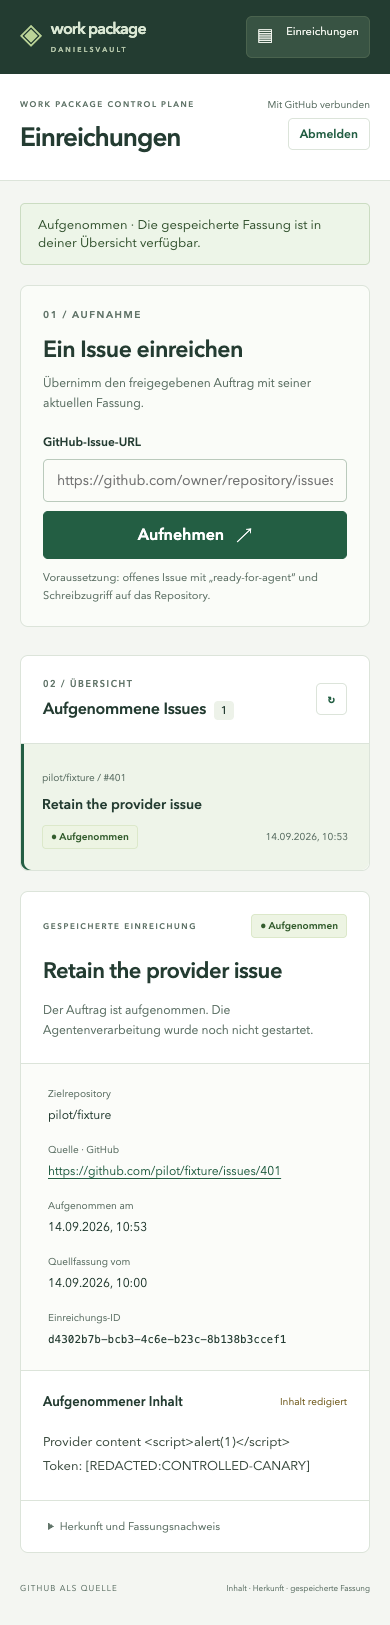
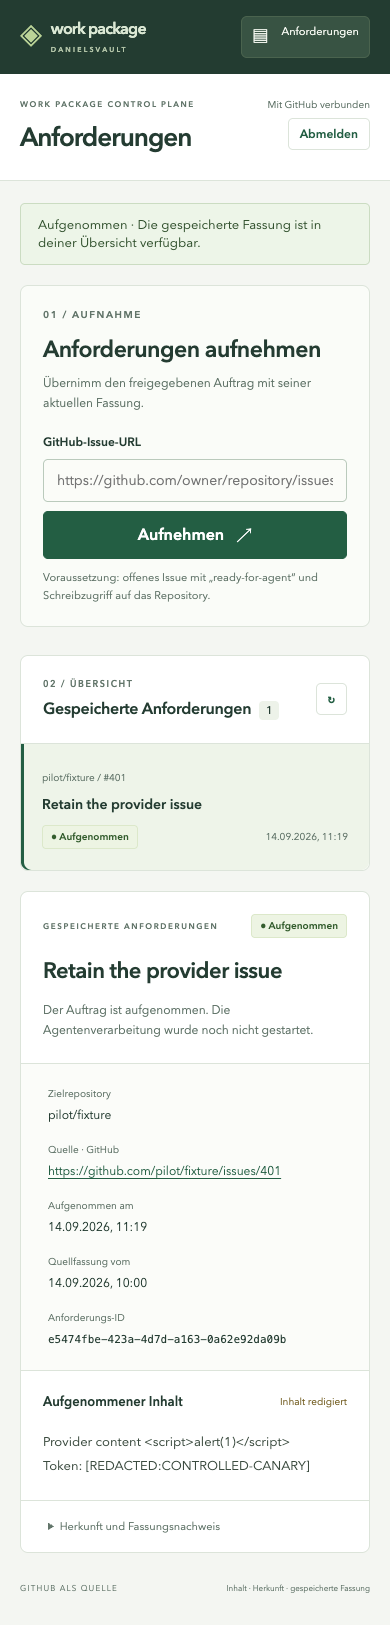
fix(operator): call work inputs Anforderungen in the GUI

diff --git a/microsoft-agent-framework-work-package-pilot/src/Wpcp.Api/wwwroot/operator/index.html b/microsoft-agent-framework-work-package-pilot/src/Wpcp.Api/wwwroot/operator/index.html
@@ -3,7 +3,7 @@
 <head>
   <meta charset="utf-8">
   <meta name="viewport" content="width=device-width, initial-scale=1">
-  <title>Einreichungen · Work Package Control Plane</title>
+  <title>Anforderungen · Work Package Control Plane</title>
   <link rel="stylesheet" href="/operator/operator.css">
   <script type="module" src="/operator/operator.js"></script>
 </head>
@@ -11,12 +11,12 @@
   <aside class="portal" aria-label="Navigation">
     <a class="brand" href="/operator/"><span aria-hidden="true">◈</span><span>work package<small>DANIELSVAULT</small></span></a>
     <p class="eyebrow">OPERATOR</p>
-    <a class="nav-current" href="/operator/" aria-current="page"><span aria-hidden="true">▤</span> Einreichungen</a>
+    <a class="nav-current" href="/operator/" aria-current="page"><span aria-hidden="true">▤</span> Anforderungen</a>
     <p class="portal-foot">Ein Ort für den Auftrag.<br>Eine nachvollziehbare Fassung.</p>
   </aside>
   <main>
     <header class="page-header">
-      <div><p class="eyebrow">WORK PACKAGE CONTROL PLANE</p><h1>Einreichungen</h1></div>
+      <div><p class="eyebrow">WORK PACKAGE CONTROL PLANE</p><h1>Anforderungen</h1></div>
       <div class="connection"><span id="connection-label">Nicht verbunden</span><button id="disconnect" class="quiet" hidden>Abmelden</button></div>
     </header>
     <div id="notice" role="status" aria-live="polite"></div>
@@ -24,7 +24,7 @@
     <section id="sign-in" class="sign-in panel" aria-labelledby="sign-in-title">
       <span class="section-number">01 / ZUGANG</span>
       <h2 id="sign-in-title">Mit GitHub verbinden</h2>
-      <p>Verwende deinen persönlichen GitHub-Zugang. Deine aktuellen Repository-Rechte bestimmen, welche Einreichungen du sehen und aufnehmen kannst.</p>
+      <p>Verwende deinen persönlichen GitHub-Zugang. Deine aktuellen Repository-Rechte bestimmen, welche Anforderungen du sehen und aufnehmen kannst.</p>
       <form id="connect-form">
         <label for="github-token">GitHub-Zugangstoken</label>
         <div class="input-row"><input id="github-token" type="password" required autocomplete="off" spellcheck="false"><button type="submit" class="primary">Verbinden <span aria-hidden="true">→</span></button></div>
@@ -33,7 +33,7 @@
     </section>
     <section id="workspace" hidden>
       <section class="intake panel" aria-labelledby="intake-title">
-        <div><span class="section-number">01 / AUFNAHME</span><h2 id="intake-title">Ein Issue einreichen</h2><p>Übernimm den freigegebenen Auftrag mit seiner aktuellen Fassung.</p></div>
+        <div><span class="section-number">01 / AUFNAHME</span><h2 id="intake-title">Anforderungen aufnehmen</h2><p>Übernimm den freigegebenen Auftrag mit seiner aktuellen Fassung.</p></div>
         <form id="submission-form">
           <label for="source-url">GitHub-Issue-URL</label>
           <div class="input-row"><input id="source-url" type="url" placeholder="https://github.com/owner/repository/issues/123" required autocomplete="off"><button type="submit" class="primary">Aufnehmen <span aria-hidden="true">↗</span></button></div>
@@ -42,22 +42,22 @@
       </section>
       <div class="records">
         <section class="overview panel" aria-labelledby="overview-title">
-          <div class="section-header"><div><span class="section-number">02 / ÜBERSICHT</span><h2 id="overview-title">Aufgenommene Issues <span id="count" class="count">0</span></h2></div><button id="refresh" class="quiet" aria-label="Einreichungen aktualisieren">↻</button></div>
-          <div id="submission-list" aria-label="Gespeicherte Einreichungen"></div>
+          <div class="section-header"><div><span class="section-number">02 / ÜBERSICHT</span><h2 id="overview-title">Gespeicherte Anforderungen <span id="count" class="count">0</span></h2></div><button id="refresh" class="quiet" aria-label="Anforderungen aktualisieren">↻</button></div>
+          <div id="submission-list" aria-label="Gespeicherte Anforderungen"></div>
         </section>
-        <section id="detail" class="detail panel" aria-label="Einreichungsdetails"><div class="empty"><span aria-hidden="true">▤</span><h2>Der Auftrag im Detail</h2><p>Wähle eine Einreichung aus der Übersicht.</p></div></section>
+        <section id="detail" class="detail panel" aria-label="Anforderungsdetails"><div class="empty"><span aria-hidden="true">▤</span><h2>Anforderungen im Detail</h2><p>Wähle die Anforderungen aus der Übersicht.</p></div></section>
       </div>
     </section>
     <footer class="page-foot">GITHUB ALS QUELLE <span>Inhalt · Herkunft · gespeicherte Fassung</span></footer>
   </main>
   <template id="detail-template">
-    <div class="detail-heading"><div class="detail-kicker"><span class="section-number">GESPEICHERTE EINREICHUNG</span><span class="badge">● Aufgenommen</span></div><h2 data-field="title" tabindex="-1"></h2><p class="execution-note">Der Auftrag ist aufgenommen. Die Agentenverarbeitung wurde noch nicht gestartet.</p></div>
+    <div class="detail-heading"><div class="detail-kicker"><span class="section-number">GESPEICHERTE ANFORDERUNGEN</span><span class="badge">● Aufgenommen</span></div><h2 data-field="title" tabindex="-1"></h2><p class="execution-note">Der Auftrag ist aufgenommen. Die Agentenverarbeitung wurde noch nicht gestartet.</p></div>
     <dl class="metadata">
       <div><dt>Zielrepository</dt><dd data-field="repository"></dd></div>
       <div><dt>Quelle · GitHub</dt><dd><a data-field="source" target="_blank" rel="noopener noreferrer"></a></dd></div>
       <div><dt>Aufgenommen am</dt><dd data-field="admitted"></dd></div>
       <div><dt>Quellfassung vom</dt><dd data-field="revision"></dd></div>
-      <div class="full"><dt>Einreichungs-ID</dt><dd><code data-field="id"></code></dd></div>
+      <div class="full"><dt>Anforderungs-ID</dt><dd><code data-field="id"></code></dd></div>
     </dl>
     <div class="content"><div class="content-heading"><h3>Aufgenommener Inhalt</h3><span data-field="redaction"></span></div><pre data-field="body"></pre></div>
     <details class="provenance"><summary>Herkunft und Fassungsnachweis</summary><dl><dt>GitHub Issue-ID</dt><dd data-field="issue-id"></dd><dt>Aufgenommen durch</dt><dd data-field="actor"></dd><dt>SHA-256 der gespeicherten Fassung</dt><dd><code data-field="sha"></code></dd><dt>Redaktionsregel</dt><dd data-field="policy"></dd></dl></details>

diff --git a/microsoft-agent-framework-work-package-pilot/src/Wpcp.Api/wwwroot/operator/operator.js b/microsoft-agent-framework-work-package-pilot/src/Wpcp.Api/wwwroot/operator/operator.js
@@ -10,13 +10,13 @@ const errors = {
   'repository-provider-unavailable': 'GitHub konnte deine Repository-Rechte nicht bestätigen. Bitte erneut versuchen.',
   'github-source-unavailable': 'GitHub konnte das Issue nicht zuverlässig liefern. Bitte erneut versuchen.',
   'github-issue-not-found': 'Das GitHub-Issue wurde nicht gefunden oder dein Zugang darf es nicht lesen.',
-  'github-source-is-pull-request': 'Diese Quelle ist ein Pull Request. Bitte ein Issue einreichen.',
+  'github-source-is-pull-request': 'Diese Quelle ist ein Pull Request. Bitte Anforderungen aus einem Issue aufnehmen.',
   'github-source-identity-mismatch': 'Die GitHub-Antwort gehört nicht zum angefragten Issue.',
   'github-issue-closed': 'Das Issue ist geschlossen. Nur offene Issues können aufgenommen werden.',
   'implementation-authorization-required': 'Dem Issue fehlt die Implementierungsfreigabe „ready-for-agent“.',
   'submission-correlation-rejected': 'Die Herkunft enthält einen durch die Redaktionsregel gesperrten Wert.',
-  'submission-not-found': 'Diese Einreichung wurde nicht gefunden.',
-  'run-store-unavailable': 'Der Server kann die Einreichungen gerade nicht speichern oder lesen. Bitte erneut versuchen.',
+  'submission-not-found': 'Diese Anforderungen wurden nicht gefunden.',
+  'run-store-unavailable': 'Der Server kann die Anforderungen gerade nicht speichern oder lesen. Bitte erneut versuchen.',
 };
 let credential = '';
 let operation;
@@ -121,7 +121,7 @@ async function overview(signal, selected = location.hash.slice(1)) {
     await showDetail(id, signal);
   } else {
     const empty = document.createElement('div'); empty.className = 'empty';
-    empty.textContent = 'Noch keine sichtbaren Einreichungen. Nimm oben dein erstes freigegebenes GitHub-Issue auf.';
+    empty.textContent = 'Noch keine sichtbaren Anforderungen. Nimm oben dein erstes freigegebenes GitHub-Issue auf.';
     $('submission-list').append(empty);
     $('detail').textContent = 'Die gespeicherte Fassung erscheint hier nach der Aufnahme.';
   }

diff --git a/microsoft-agent-framework-work-package-pilot/tests/test_submissions.py b/microsoft-agent-framework-work-package-pilot/tests/test_submissions.py
@@ -165,6 +165,6 @@ class SubmissionTests(SubmissionProcessHarness, unittest.TestCase):
     def test_operator_gui_is_served_without_fixture_capability(self):
         status, _, raw = self.request('GET', '/operator/', include_fixture_access=False)
         self.assertEqual(200, status)
-        self.assertIn('<title>Einreichungen', raw)
+        self.assertIn('<title>Anforderungen', raw)
         self.assertIn('GitHub-Issue-URL', raw)
         self.assertIn('type="module"', raw)

diff --git a/openspec/changes/add-agent-framework-operator-gui/issue-01-evidence.md b/openspec/changes/add-agent-framework-operator-gui/issue-01-evidence.md
@@ -67,4 +67,9 @@ The large history scenario committed 10,015 events, reconnected for 9,765 events
 
 Final source checks: zero-warning/zero-error .NET solution build, JavaScript syntax validation, `git diff --check`, and `openspec validate add-agent-framework-operator-gui --strict`. The initial environment run is retained separately as [initial-environment-run.log](evidence/issue-01/initial-environment-run.log); it is not counted as a product regression or acceptance evidence.
 
-The final refactored code also passed the explicit real GitHub GUI/restart proof again (1 test in 18.741 seconds): [live-github-test.log](evidence/issue-01/live-github-test.log). The live screenshots and snapshot were refreshed from this final run.
+The final refactored code also passed the explicit real GitHub GUI/restart proof again (1 test): [live-github-test.log](evidence/issue-01/live-github-test.log). The live screenshots and snapshot were refreshed from this final run.
+
+
+## User-requested terminology correction
+
+The user requested a product-facing name such as Featureidee, Anforderungen or Spec instead of Einreichung. The GUI now consistently uses **Anforderungen** in navigation, page/title/detail labels, accessible labels and error/empty-state messages. This is a copy-only follow-up in the same change. Two focused existing checks passed (rendered browser/restart and public GUI route), followed by the real GitHub GUI proof (1 passed in 17.936 seconds). Desktop/mobile screenshots and readback snapshots were refreshed. No full regression rerun was needed for these text changes; strict OpenSpec validation and diff checks passed.

diff --git a/openspec/changes/add-agent-framework-operator-gui/design.md b/openspec/changes/add-agent-framework-operator-gui/design.md
@@ -18,6 +18,10 @@ The existing PRD already requires work across human machines, full observable me
 - The user selected the complete human Operator surface for the first release. Routine intervention, continuation, control ownership/transfer and qualified-head approval must be possible through the GUI; targeted Open in Codex remains an explicit path for detailed session work.
 - The GUI is additive. The user explicitly retains access through their local agent and the existing pilot Handover route; central session management does not make the GUI mandatory for diagnosis or supported intervention.
 
+## User-facing terminology
+
+On 2026-09-14 the user requested “Featureidee”, “Anforderungen” or “Spec” instead of “Einreichung”. The GUI uses **Anforderungen** consistently for the navigation, overview, retained content and messages. The persisted intake identity continues to identify the admitted version; this copy correction does not change admission or execution behavior.
+
 ## First-release operator scope
 
 Expose the existing product actions: answer an intervention; Resume, Fork, Fresh Retry or Cancel an explicit attempt/run as appropriate; send targeted queue/interrupt commands; claim/release control, request/approve a transfer or perform an audited Forced Takeover; open the selected attempt in Codex; and explicitly approve the currently qualified head as an authenticated human. Show the current controller, target attempt/session, head and actionable rejection reasons. All actions retain their existing authorization, fencing, identity and history semantics.

diff --git a/microsoft-agent-framework-work-package-pilot/SUBMISSIONS.md b/microsoft-agent-framework-work-package-pilot/SUBMISSIONS.md
@@ -1,5 +1,6 @@
 # GitHub submissions in the Operator GUI (GUI Ticket 01)
 
+The GUI labels the work inputs **Anforderungen**.
 The API serves the GUI at `/operator/` and persists actual GitHub issue title/body
 snapshots in PostgreSQL. Admission produces `state: admitted` and `runId: null`.
 It does not start a worker, create a run, claim a lease or write to GitHub.
